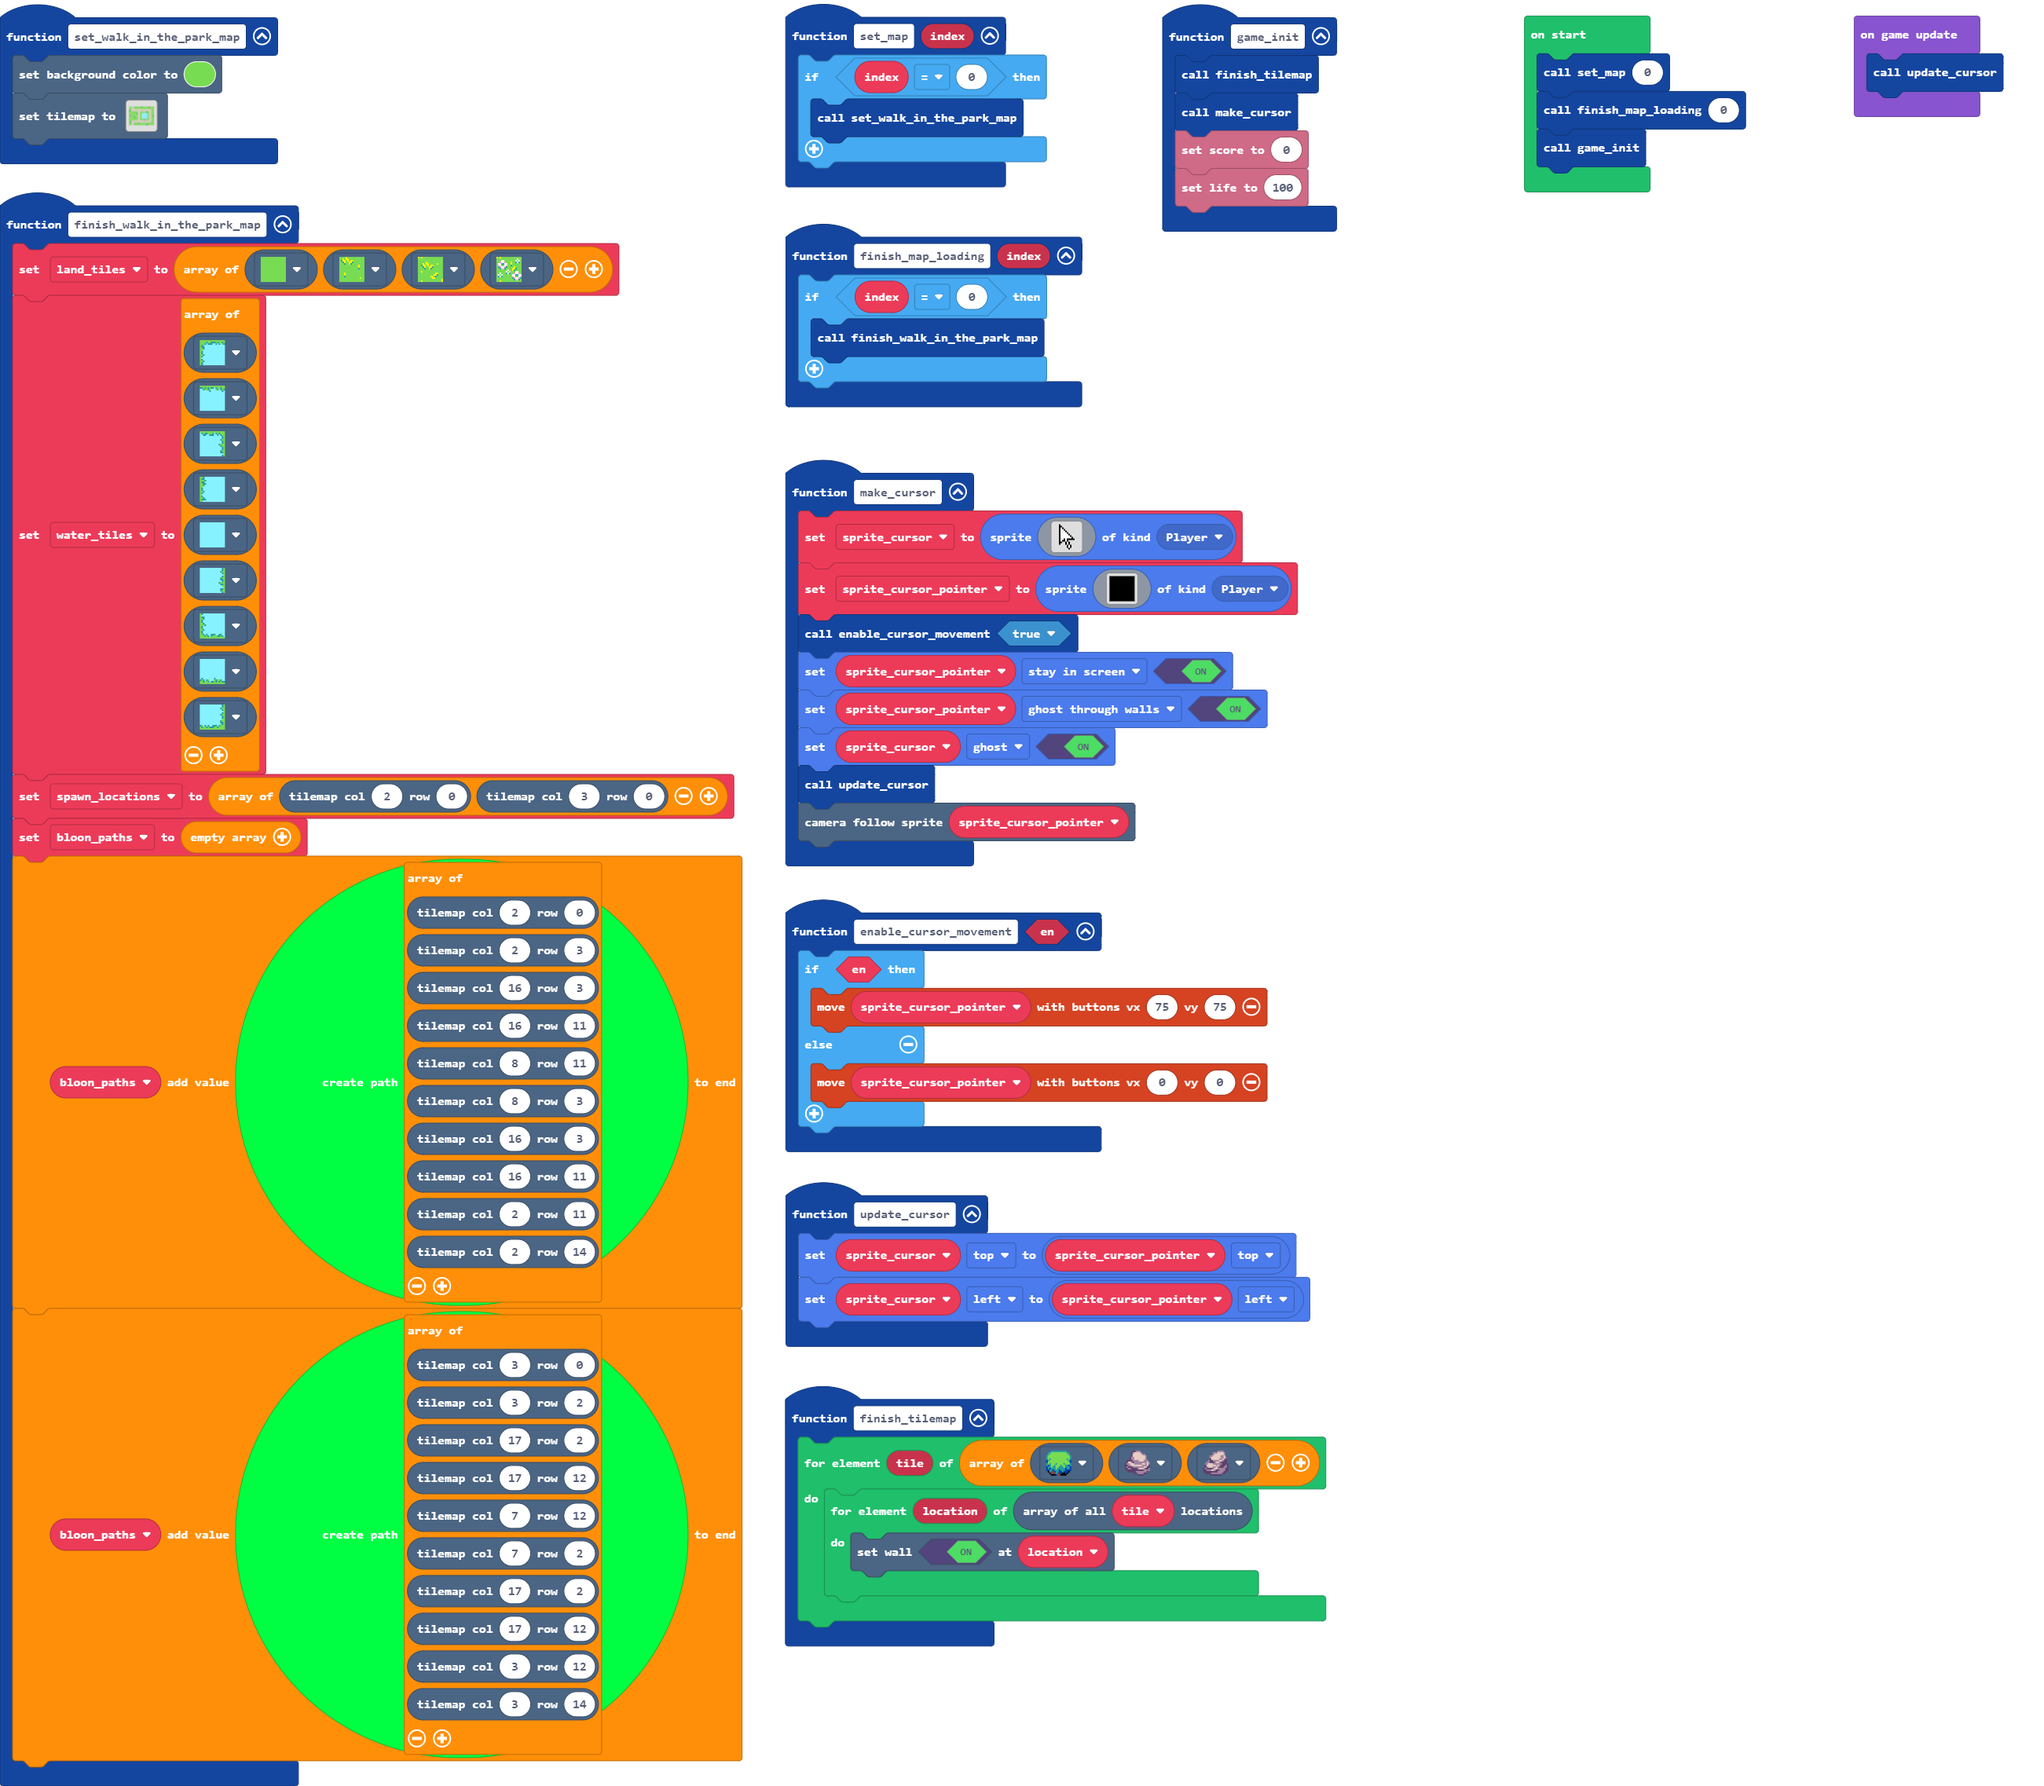
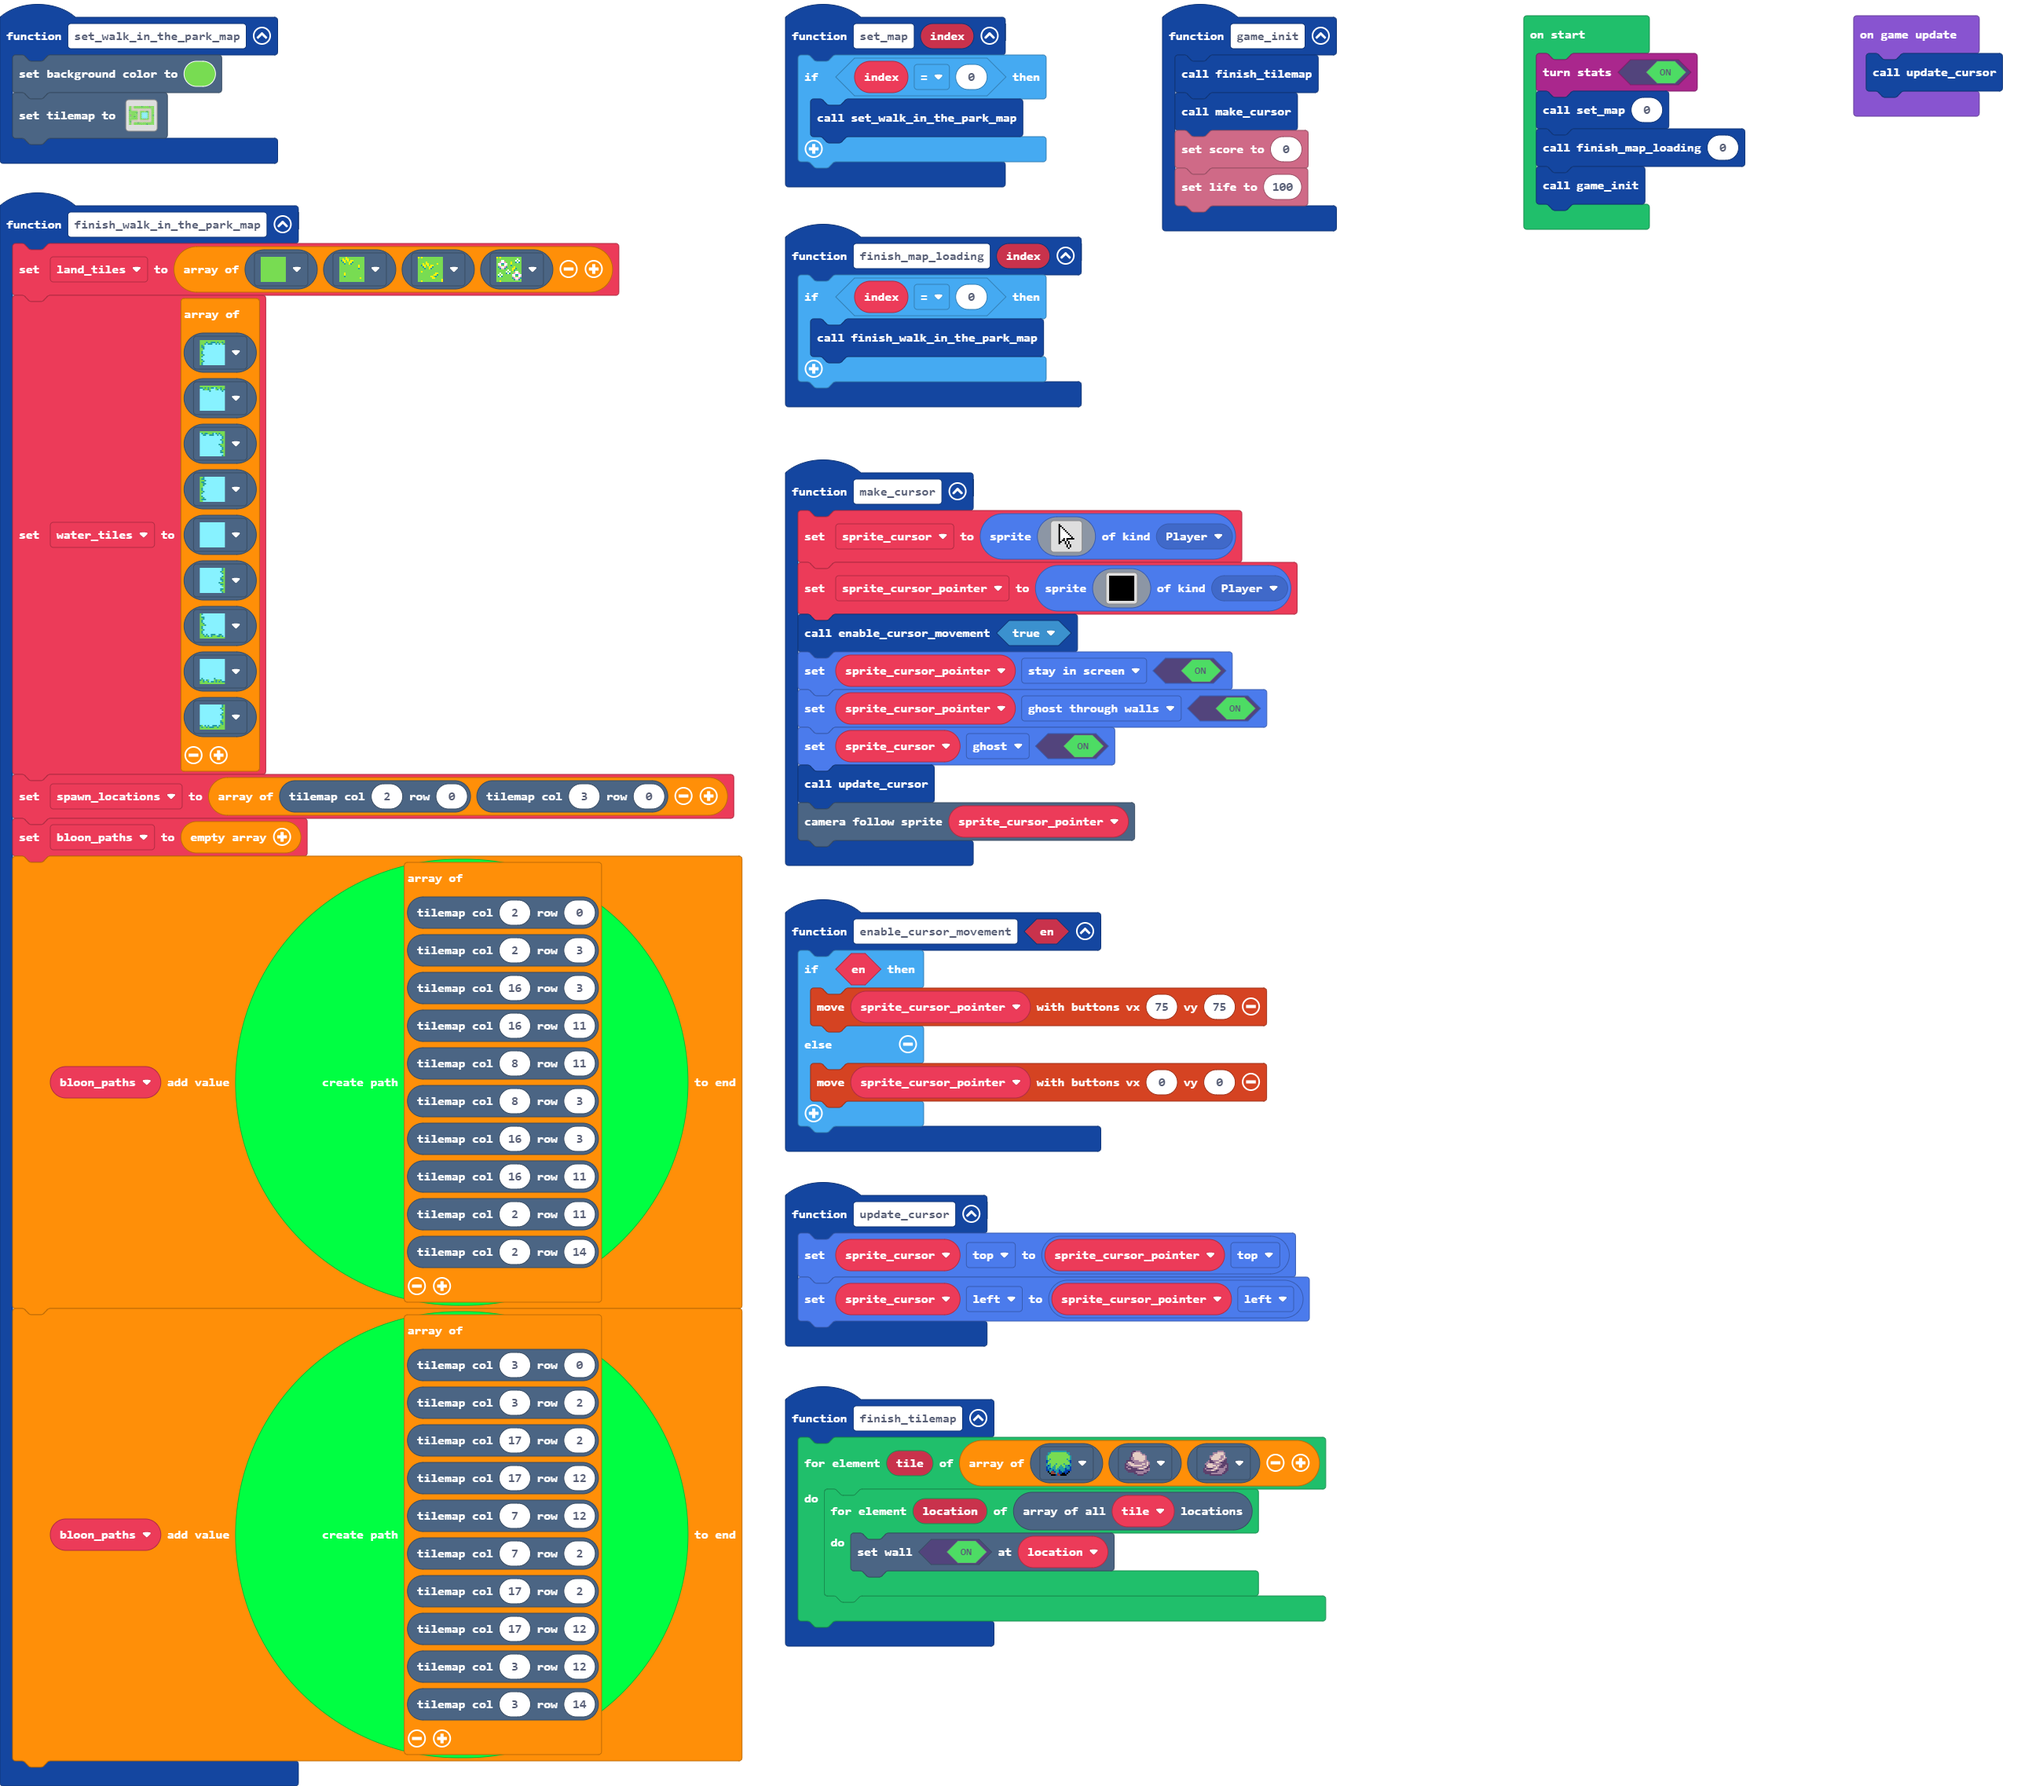
Always show stats

diff --git a/main.ts b/main.ts
@@ -92,6 +92,7 @@ let water_tiles: Image[] = []
 let land_tiles: Image[] = []
 let sprite_cursor_pointer: Sprite = null
 let sprite_cursor: Sprite = null
+stats.turnStats(true)
 set_map(0)
 finish_map_loading(0)
 game_init()
